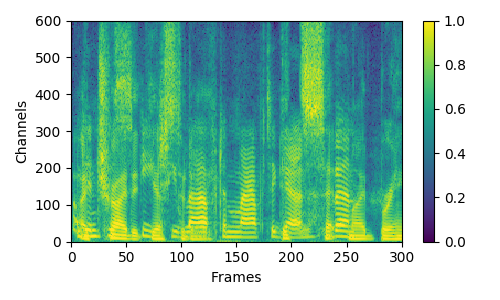
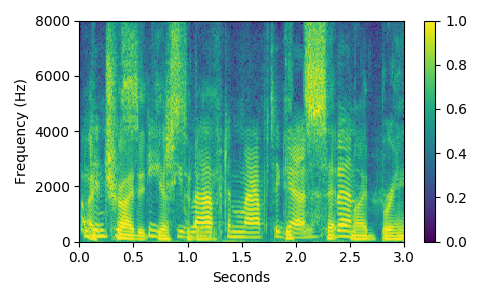
update fig 0803

diff --git a/utils/plotting.py b/utils/plotting.py
@@ -11,11 +11,11 @@ def fig2np(fig):
 
 def plot_spectrogram_to_numpy(spectrogram):
     fig, ax = plt.subplots(figsize=(5, 3))
-    im = ax.imshow(spectrogram, aspect='auto', origin='lower',
+    im = ax.imshow(spectrogram, aspect='auto', origin='lower',  extent=[0,3,0,8000],
                    interpolation='none', vmin=0, vmax=1)
     plt.colorbar(im, ax=ax)
-    plt.xlabel('Frames')
-    plt.ylabel('Channels')
+    plt.xlabel('Seconds')
+    plt.ylabel('Frequency (Hz)')
     plt.tight_layout()
 
     fig.canvas.draw()
